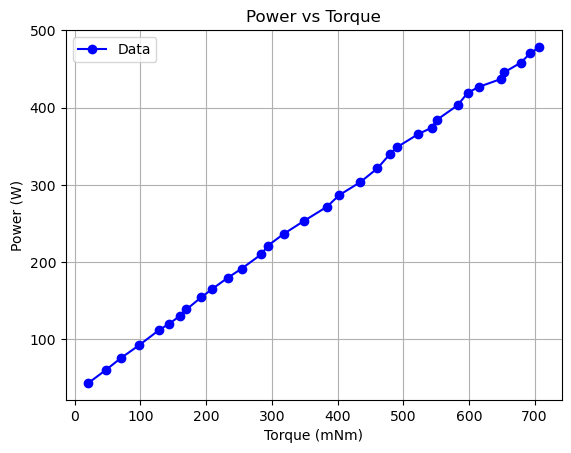
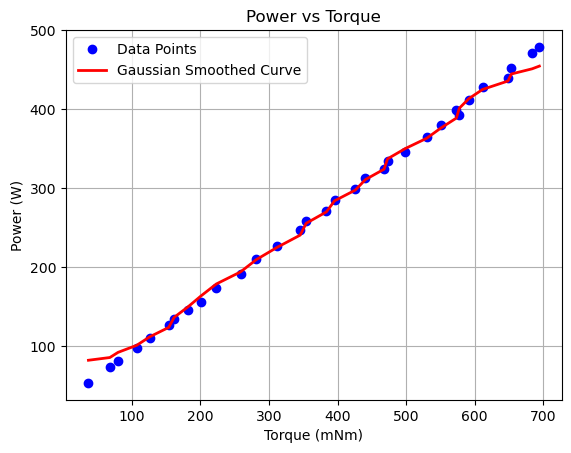
add smoothers

diff --git a/scripts/theoretical.py b/scripts/theoretical.py
@@ -1,5 +1,7 @@
-import numpy as np
+# from scipy.interpolate import UnivariateSpline
+from scipy.ndimage import gaussian_filter1d
 import matplotlib.pyplot as plt
+import numpy as np
 import math
 import time
 import os
@@ -159,40 +161,92 @@ def get_screw_force(torque):
 
 # -- Test ve data toplama --
 
-def create_and_save_graph(x, y, filename, title="Graph", xlabel="X-axis", ylabel="Y-axis"):
+def moving_average(data, window_size):
+    """
+    Hareketli ortalama yöntemi ile yumuşatma uygular.
+    
+    Parametreler:
+      data        : Orijinal veri (numpy array veya liste)
+      window_size : Ortalama için pencere boyutu (ör. 3, 5, ...)
+    
+    Return:
+      Yumuşatılmış veri (numpy array)
+    """
+    return np.convolve(data, np.ones(window_size)/window_size, mode='valid')
+
+
+def create_and_save_graph(x, y, filename, title="Graph", xlabel="X-axis", ylabel="Y-axis", smooth=True, sigma=3):
     """
     Verilen x ve y veri dizilerinden bir grafik oluşturur, grafiği
     belirtilen dosya adıyla kaydeder (örn: 'graph.png') ve aynı zamanda
     veri noktalarını bir txt dosyasına yazar (örn: 'graph.txt').
     
+    Opsiyonel olarak çizgiyi spline interpolasyonu ile yumuşatır.
+    
     Parametreler:
-      x        : X ekseni veri dizisi (list, numpy array, vb.)
-      y        : Y ekseni veri dizisi (list, numpy array, vb.)
-      filename : Kaydedilecek grafik dosyasının adı (örn. "graph.png").
-      title    : Grafik başlığı (varsayılan "Graph")
-      xlabel   : X eksen etiketi (varsayılan "X-axis")
-      ylabel   : Y eksen etiketi (varsayılan "Y-axis")
+      x            : X ekseni veri dizisi (list, numpy array, vb.)
+      y            : Y ekseni veri dizisi (list, numpy array, vb.)
+      filename     : Kaydedilecek grafik dosyasının adı (örn: "graph.png").
+      title        : Grafik başlığı (varsayılan "Graph")
+      xlabel       : X eksen etiketi (varsayılan "X-axis")
+      ylabel       : Y eksen etiketi (varsayılan "Y-axis")
+      smooth       : True ise spline interpolasyonu kullanarak çizgiyi yumuşatır.
+      smooth_factor: Spline yumuşatma derecesi (0 daha keskin, büyük değerler daha pürüzsüz).
     """
-    # Grafik oluşturma ve kaydetme
+    x = np.array(x.copy())
+    y = np.array(y.copy())
+
+    sorted_indices = np.argsort(x)  # x'in sıralı indekslerini alın
+    x = x[sorted_indices]           # x sıralı hale getirildi
+    y = y[sorted_indices]           # y aynı sıraya göre düzenlendi
+
     plt.figure()
-    plt.plot(x, y, marker='o', linestyle='-', color='blue', label="Data")
+
+    # Orijinal veri noktalarını göster
+    plt.plot(x, y, 'o', color='blue', label="Data Points")  # Noktalar (mavi)
+
+    if smooth:
+        # # UnivariateSpline ile daha fazla yumuşatma
+        # spline = UnivariateSpline(x, y, s=smooth_factor)  # s: yumuşatma parametresi
+        # x_new = np.linspace(min(x), max(x), 500)          # Daha fazla ara nokta üret
+        # y_smooth = spline(x_new)
+
+        # # Yumuşatılmış çizgi
+        # plt.plot(x_new, y_smooth, color='red', label="Smoothed Curve", linewidth=2)
+
+        # # Moving Average ile yumuşatma
+        # y_smooth = moving_average(y, window_size)
+        # # X değerlerini de aynı şekilde kısalt (yeni pencerelere uyumlu hale getirmek için)
+        # x_smooth = x[:len(y_smooth)]
+        
+        # # Yumuşatılmış çizgi
+        # plt.plot(x_smooth, y_smooth, color='red', label="Smoothed Curve", linewidth=2)
+
+        # Gaussian filtre uygulama
+        y_smooth = gaussian_filter1d(y, sigma=sigma)
+
+        # Yumuşatılmış çizgi
+        plt.plot(x, y_smooth, color='red', label="Gaussian Smoothed Curve", linewidth=2)
+
+
+
+    # Eksen ve başlık
     plt.xlabel(xlabel)
     plt.ylabel(ylabel)
     plt.title(title)
     plt.grid(True)
     plt.legend()
     
+    # Grafik kaydetme
     plt.savefig(filename, bbox_inches="tight")
     plt.close()
     print(f"Grafik '{filename}' olarak kaydedildi.")
 
-    # Dosya ismini bölerek .txt uzantılı dosya adı oluşturma
+    # Txt dosyası oluşturma
     base_name, _ = os.path.splitext(filename)
     data_filename = base_name + ".txt"
-    
-    # Veri noktalarını txt dosyasına yazma
     with open(data_filename, "w") as file:
-        file.write("x\ty\n")  # Başlık satırı
+        file.write("x\ty\n")
         for xi, yi in zip(x, y):
             file.write(f"{xi}\t{yi}\n")
     print(f"Veri noktaları '{data_filename}' dosyasına yazıldı.")
